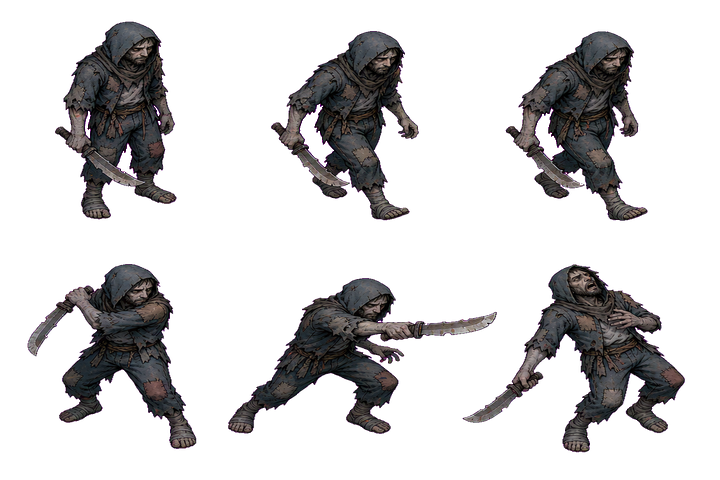
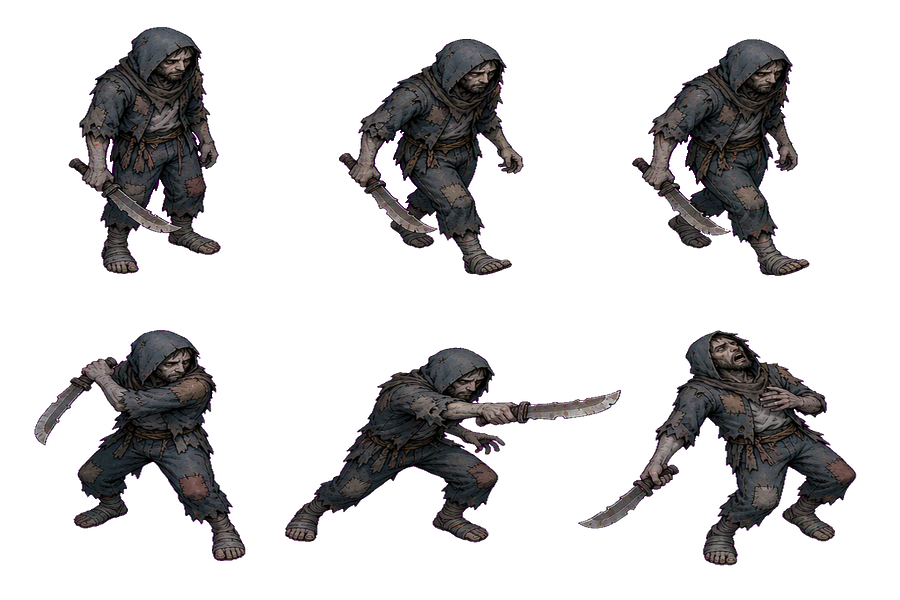
feat(characters): 4-directional sprites - fixes walk facing "乱飘" for good
Owner was right: a single left-facing sprite + flip CANNOT show up/down
movement (walking up should show the back, down the front) - so facing
"drifted" erratically. The real fix is per-direction art, which is what the
old atlas had and I wrongly removed.

- New per-weapon front/back sheets (scavenger_<w>_vert_3x2: frames 0-2 facing
  the camera, 3-5 facing away), generated at the moonlit spec. Existing side
  sheet stays (faces left; flipped for right). All player sheets unified to
  300px frames.
- createUnitAnimations builds {idle,walk}-{side,down,up} per weapon; attack/
  hurt stay on the side sheet.
- PlayerMarker picks the sheet by cardinal direction (down=front, up=back,
  left/right=side, flip only for right). No more single-facing flip hack.

Second root cause fixed: walk facing must come from ACTUAL movement
displacement, NOT player.direction (that's the mouse-aim direction - aiming
down while walking up showed the front). step() now derives the cardinal from
the root delta; sync() no longer drives walk facing from aim.

Self-verified in-engine all directions: console trace confirmed
down->walk-down / left,right->walk-side / and a clean up-move capture shows
the BACK-view sprite. (The earlier "up shows front" was the synthetic move
getting deflected sideways, not a code bug - confirmed via the trace.)
npm run build green.

Changed region(s): [[0.4278, 0.3125, 0.4583, 0.3438], [0.4278, 0.2188, 0.4583, 0.25]]

diff --git a/client/src/game/entities/PlayerMarker.ts b/client/src/game/entities/PlayerMarker.ts
@@ -36,11 +36,10 @@ export class PlayerMarker {
   private targetX: number;
   private targetY: number;
   private currentState: AnimationState = "IDLE";
-  private facing: DirectionKey = "down";
+  private cardinal: DirectionKey = "down";
   private weaponType: WeaponType;
   private actionLockedUntil = 0;
   private walkPhase = 0;
-  private faceRight = false;
   private breathTween?: Phaser.Tweens.Tween;
   private lastHp = 0;
   private lastNameplateText = "";
@@ -56,8 +55,7 @@ export class PlayerMarker {
     this.targetY = player.y;
     this.lastHp = player.hp;
     this.weaponType = player.weaponType;
-    this.facing = directionToKey(player.direction);
-    this.updateFaceRight(player.direction);
+    this.updateCardinal(player.direction);
 
     this.shadow = scene.add.graphics();
     this.shadow.fillStyle(0x0a0805, 0.3);
@@ -136,10 +134,8 @@ export class PlayerMarker {
     this.lastHp = player.hp;
     this.targetX = player.x;
     this.targetY = player.y;
-    if (player.direction.x !== 0 || player.direction.y !== 0) {
-      this.facing = directionToKey(player.direction);
-      this.updateFaceRight(player.direction);
-    }
+    // 不在这里用 player.direction 定朝向（那是鼠标瞄准方向）；走路朝向由 step() 的
+    // 实际位移决定，攻击朝向由 playAction 的 direction 决定。
     this.applyState(player, isSelf);
   }
 
@@ -147,8 +143,7 @@ export class PlayerMarker {
   playAction(action: ActionKey, direction?: { x: number; y: number }): void {
     if (this.currentState === "DIE") return;
     if (direction && (direction.x !== 0 || direction.y !== 0)) {
-      this.facing = directionToKey(direction);
-      this.updateFaceRight(direction);
+      this.updateCardinal(direction);
     }
     this.body.setFlipX(this.shouldFlip());
 
@@ -177,7 +172,14 @@ export class PlayerMarker {
     }
 
     if (this.currentState !== "DIE" && Date.now() >= this.actionLockedUntil) {
-      const moving = Math.abs(this.root.x - prevX) > 0.6 || Math.abs(this.root.y - prevY) > 0.6;
+      const dx = this.root.x - prevX;
+      const dy = this.root.y - prevY;
+      const moving = Math.abs(dx) > 0.6 || Math.abs(dy) > 0.6;
+      if (moving) {
+        // 朝向由**实际移动位移**决定（不是 player.direction——那是鼠标瞄准方向，
+        // 朝下瞄准往上走会导致显示正面）。位移定 cardinal → 正确的正/背/侧面图。
+        this.updateCardinal({ x: dx, y: dy });
+      }
       this.body.setFlipX(this.shouldFlip());
       if (moving) {
         const walkKey = this.anim("walk");
@@ -218,27 +220,32 @@ export class PlayerMarker {
     scene.tweens.add({ targets: ghost, alpha: 0, duration: 300, onComplete: () => ghost.destroy() });
   }
 
+  /**
+   * 四方向动画键。idle/walk 按朝向选行：down=正面图、up=背面图、left/right=侧面图。
+   * attack/hurt 用侧面图（无方向后缀，攻击短暂朝瞄准）。
+   */
   private anim(action: "idle" | "walk" | "attack" | "hurt"): string {
-    return `scavenger-${this.weaponType}-${action}`;
-  }
-
-  /**
-   * 粘滞水平朝向：只在**明确水平移动**时更新左右，竖直/斜向/静止都保持上次朝向。
-   * 直接用 directionToKey 的 left/right 会在 x 分量过零/抖动时反复横跳 → 朝向乱飘。
-   */
-  private updateFaceRight(dir: { x: number; y: number }): void {
-    if (Math.abs(dir.x) > Math.abs(dir.y) * 1.15 && Math.abs(dir.x) > 0.25) {
-      this.faceRight = dir.x > 0;
+    if (action === "attack" || action === "hurt") {
+      return `scavenger-${this.weaponType}-${action}`;
     }
+    const row = this.cardinal === "down" ? "down" : this.cardinal === "up" ? "up" : "side";
+    return `scavenger-${this.weaponType}-${action}-${row}`;
   }
 
   /**
-   * 朝向翻转的唯一真源（别再各写各的，历史反复写反这个）。
-   * 生成的拾荒者动作图**默认朝屏幕左**（待机脸朝左、挥砍向左劈，见 SPEC）。
-   * 因此仅在朝右时水平翻转。faceRight 是粘滞的（见 updateFaceRight），不随竖直移动跳。
+   * 四方向真源：把移动方向贴到最近的主轴（上/下/左/右），只在移动时更新、静止保持。
+   * 竖直移动 → up/down（用正背面图），不会再因 x 抖动在左右间乱飘（历史反复踩的根因）。
    */
+  private updateCardinal(dir: { x: number; y: number }): void {
+    if (dir.x === 0 && dir.y === 0) return;
+    this.cardinal = Math.abs(dir.x) >= Math.abs(dir.y)
+      ? (dir.x >= 0 ? "right" : "left")
+      : (dir.y >= 0 ? "down" : "up");
+  }
+
+  /** 侧面图默认朝屏幕左，仅 cardinal==="right" 时水平翻转。正背面图不翻。 */
   private shouldFlip(): boolean {
-    return this.faceRight;
+    return this.cardinal === "right";
   }
 
   private startIdleBreath(scene: Phaser.Scene): void {
@@ -275,7 +282,8 @@ export class PlayerMarker {
     if (!player.isAlive) {
       this.currentState = "DIE";
       this.body.anims.stop();
-      this.body.setFrame(FRAME.hurt);
+      // 死亡用侧面图的受击帧（当前可能是正/背面图，帧 5 含义不同）
+      this.body.setTexture(`scavenger_${this.weaponType}`, FRAME.hurt);
       this.body.setAlpha(0.5);
       this.body.setAngle(this.shouldFlip() ? 82 : -82);
     } else if (this.currentState === "DIE") {
@@ -386,13 +394,6 @@ function resolveHpColor(hpRatio: number): number {
   if (hpRatio > 0.6) return 0x7fa14a;
   if (hpRatio > 0.3) return 0xd4b24c;
   return 0xb8371f;
-}
-
-function directionToKey(direction: { x: number; y: number }): DirectionKey {
-  if (Math.abs(direction.x) > Math.abs(direction.y)) {
-    return direction.x >= 0 ? "right" : "left";
-  }
-  return direction.y < 0 ? "up" : "down";
 }
 
 function formatNameplate(player: PlayerState, isSelf: boolean): string {

diff --git a/client/src/scenes/GameScene.ts b/client/src/scenes/GameScene.ts
@@ -155,9 +155,12 @@ export class GameScene extends Phaser.Scene {
     this.load.image("extract_beacon_asset", "assets/generated/medieval-extract-marker-cpa-image2-256-20260501.png");
     // 焊接动作图（冷月圣经，owner 拍板）：每把武器一张 3x2 动作图（人+武器一体）。
     // 帧序 0 待机/1-2 走/3 抬刀/4 挥砍/5 受击。加新武器=多生成一张同布局图。
-    this.load.spritesheet("scavenger_sword", "assets/generated/image2_processed/characters/scavenger_sword_3x2.png", { frameWidth: 240, frameHeight: 240 });
-    this.load.spritesheet("scavenger_blade", "assets/generated/image2_processed/characters/scavenger_blade_3x2.png", { frameWidth: 240, frameHeight: 240 });
-    this.load.spritesheet("scavenger_spear", "assets/generated/image2_processed/characters/scavenger_spear_3x2.png", { frameWidth: 240, frameHeight: 240 });
+    // 四方向：侧面图（朝左，frames 0待机/1-2走/3抬手/4挥砍/5受击）+ 正背面图
+    // （vert: 0-2 正面朝镜头走 / 3-5 背面远离走）。全部 300px 帧。
+    for (const w of ["sword", "blade", "spear"]) {
+      this.load.spritesheet(`scavenger_${w}`, `assets/generated/image2_processed/characters/scavenger_${w}_3x2.png`, { frameWidth: 300, frameHeight: 300 });
+      this.load.spritesheet(`scavenger_${w}_vert`, `assets/generated/image2_processed/characters/scavenger_${w}_vert_3x2.png`, { frameWidth: 300, frameHeight: 300 });
+    }
     this.load.spritesheet("unit_enemy_raider", "assets/generated/image2_processed/characters/unit_enemy_raider_sheet_4x4.png", { frameWidth: 314, frameHeight: 314 });
     for (const contract of Object.values(MONSTER_ASSET_CONTRACTS)) {
       this.load.spritesheet(contract.textureKey, contract.assetPath, {
@@ -215,18 +218,25 @@ export class GameScene extends Phaser.Scene {
   }
 
   private createUnitAnimations(): void {
-    // 焊接动作图：每把武器一张同布局 3x2（0待机/1走A/2走B/3抬刀/4挥砍/5受击）。
-    // 朝向用左右翻转（PlayerMarker），不画多方向。
-    const weaponSheets: Array<{ weapon: WeaponType; key: string }> = [
-      { weapon: "sword", key: "scavenger_sword" },
-      { weapon: "blade", key: "scavenger_blade" },
-      { weapon: "spear", key: "scavenger_spear" }
-    ];
-    for (const { weapon, key } of weaponSheets) {
-      this.createAnimation(`scavenger-${weapon}-idle`, key, [0], 1, -1);
-      this.createAnimation(`scavenger-${weapon}-walk`, key, [1, 0, 2, 0], 7, -1);
-      this.createAnimation(`scavenger-${weapon}-attack`, key, [3, 4], getAttackAnimationFrameRate(weapon), 0);
-      this.createAnimation(`scavenger-${weapon}-hurt`, key, [5], 1, 0);
+    // 四方向角色动画。侧面图（key）：0待机/1-2走/3抬手/4挥砍/5受击（朝左）。
+    // 正背面图（key_vert）：0-2 正面朝镜头走 / 3-5 背面远离走。
+    // down=正面, up=背面, left/right=侧面（right 由 PlayerMarker flipX）。
+    const weapons: WeaponType[] = ["sword", "blade", "spear"];
+    for (const weapon of weapons) {
+      const side = `scavenger_${weapon}`;
+      const vert = `scavenger_${weapon}_vert`;
+      // 侧面（左右共用）
+      this.createAnimation(`scavenger-${weapon}-idle-side`, side, [0], 1, -1);
+      this.createAnimation(`scavenger-${weapon}-walk-side`, side, [1, 0, 2, 0], 7, -1);
+      // 正面（向下/朝镜头）
+      this.createAnimation(`scavenger-${weapon}-idle-down`, vert, [0], 1, -1);
+      this.createAnimation(`scavenger-${weapon}-walk-down`, vert, [1, 0, 2, 0], 7, -1);
+      // 背面（向上/远离）
+      this.createAnimation(`scavenger-${weapon}-idle-up`, vert, [3], 1, -1);
+      this.createAnimation(`scavenger-${weapon}-walk-up`, vert, [4, 3, 5, 3], 7, -1);
+      // 攻击/受击统一用侧面图（攻击短暂，朝向瞄准）
+      this.createAnimation(`scavenger-${weapon}-attack`, side, [3, 4], getAttackAnimationFrameRate(weapon), 0);
+      this.createAnimation(`scavenger-${weapon}-hurt`, side, [5], 1, 0);
     }
 
     for (const monsterType of Object.keys(MONSTER_ASSET_CONTRACTS) as Array<keyof typeof MONSTER_ASSET_CONTRACTS>) {